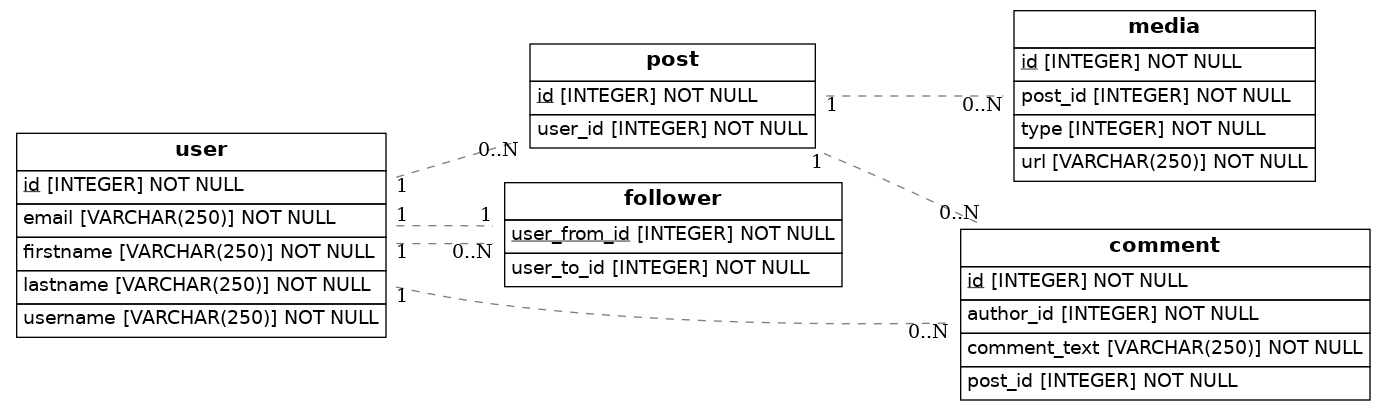
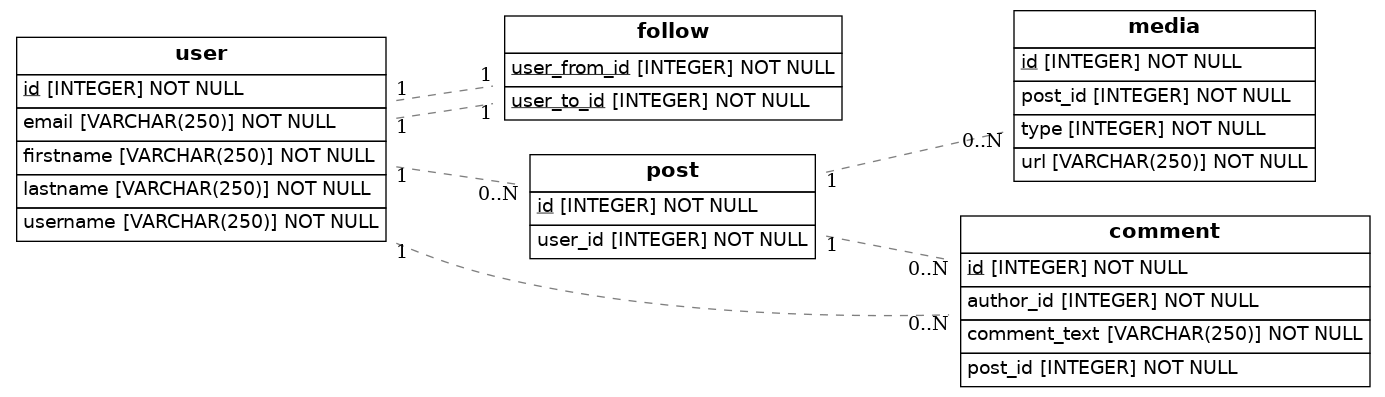
actualizamos muchos a muchos de follow y user

diff --git a/src/models.py b/src/models.py
@@ -7,15 +7,29 @@ from eralchemy2 import render_er
 
 Base = declarative_base()
 
+
+class Follow(Base):
+    __tablename__ = 'follow'
+    user_from_id = Column(Integer, ForeignKey('user.id'), primary_key=True, nullable=False)
+    user_to_id = Column(Integer, ForeignKey('user.id'), primary_key=True, nullable=False)
+
 class User(Base):
     __tablename__ = 'user'
-    # Here we define columns for the table person
-    # Notice that each column is also a normal Python instance attribute.
     id = Column(Integer, primary_key=True)
     username = Column(String(250), nullable=False)
     firstname = Column(String(250), nullable=False)
     lastname = Column(String(250), nullable=False)
     email = Column(String(250), nullable=False, unique=True)
+    
+    # Define the many-to-many relationship
+    followed = relationship(
+        "User",
+        secondary=Follow.__table__,
+        primaryjoin=(Follow.user_from_id == id),
+        secondaryjoin=(Follow.user_to_id == id),
+        backref="followers",
+        lazy="dynamic"
+    )
 
 class Post(Base):
     __tablename__ = 'post'
@@ -25,13 +39,6 @@ class Post(Base):
     user_id = Column(Integer, ForeignKey('user.id'), nullable=False)
     user = relationship(User)
 
-class Follower(Base):
-    __tablename__ = 'follower'
-    # Here we define columns for the table person
-    # Notice that each column is also a normal Python instance attribute.
-    user_from_id = Column(Integer, ForeignKey('user.id'), primary_key=True, nullable=False)
-    user_to_id = Column(Integer, ForeignKey('user.id'), nullable=False)
-    user = relationship(User)
 
 
 class Media(Base):
